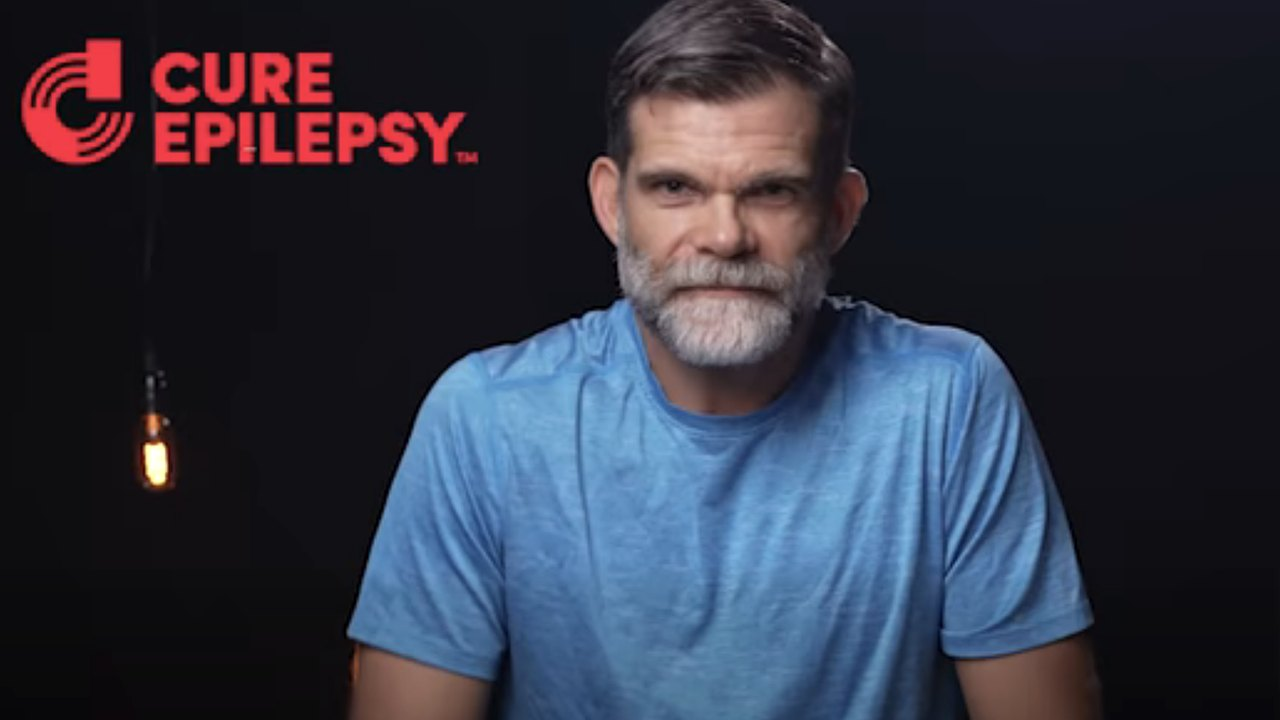
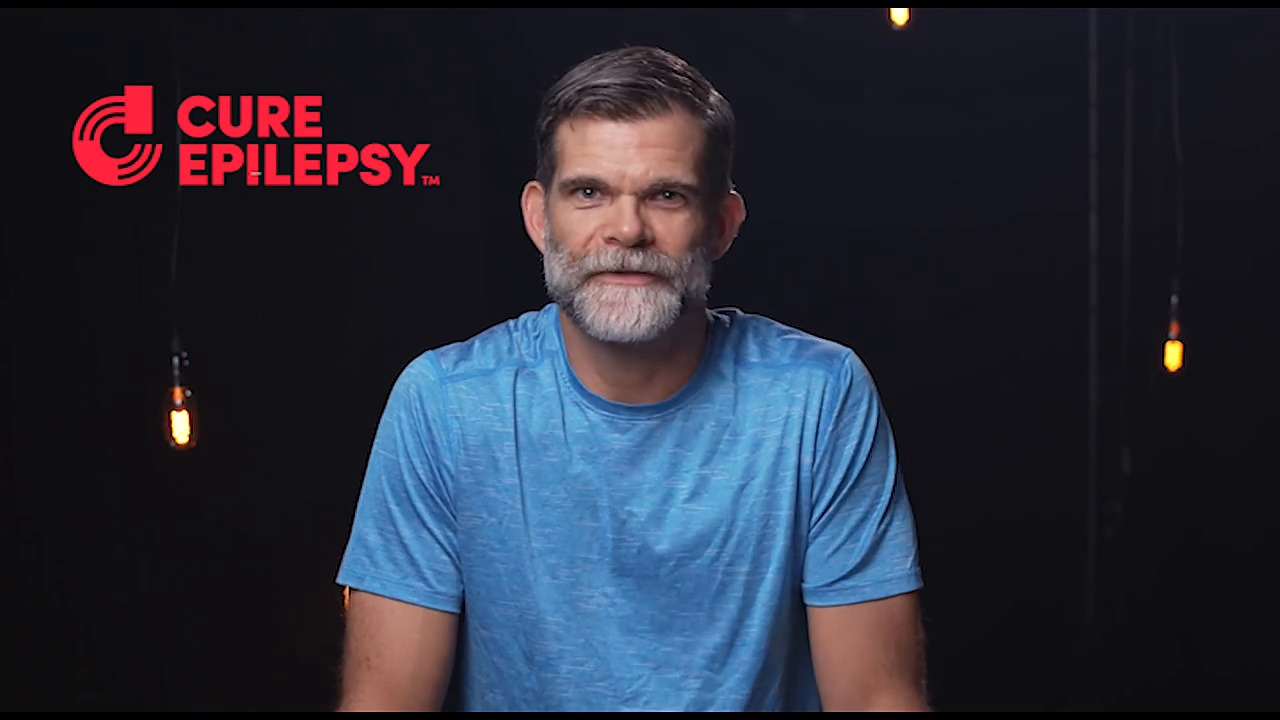
CURE thumbnail from the source file; bigger viewer so YouTube serves higher quality
Claude-Session: https://claude.ai/code/session_015KQFJCzFPqNAcjc17UuvdV

diff --git a/film.html b/film.html
@@ -17,8 +17,8 @@
 <link rel="preconnect" href="https://fonts.googleapis.com">
 <link rel="preconnect" href="https://fonts.gstatic.com" crossorigin>
 <link href="https://fonts.googleapis.com/css2?family=Anton&family=Caveat:wght@500;600&family=Fraunces:ital,opsz,wght@0,9..144,400;0,9..144,500;1,9..144,400;1,9..144,500&family=Inter:wght@300;400;500&family=JetBrains+Mono:wght@400;500&display=swap" rel="stylesheet">
-<link rel="stylesheet" href="css/site.css?v=202611181149">
-<link rel="stylesheet" href="css/work.css?v=202611181149">
+<link rel="stylesheet" href="css/site.css?v=202611181157">
+<link rel="stylesheet" href="css/work.css?v=202611181157">
 </head>
 <body class="theme-ink page-film">
 <a class="skip" href="#main">Skip to content</a>
@@ -101,7 +101,7 @@
     </li>
     <li class="reel" data-yt="5fXrk5r1kSE">
       <button class="reel-play" type="button" aria-label="Play the CURE Epilepsy fundraising video">
-        <span class="reel-thumb"><img src="images/work/cure-epilepsy.jpg" alt="" loading="lazy"></span>
+        <span class="reel-thumb"><img src="images/work/cure-epilepsy.jpg?v=2" alt="" loading="lazy"></span>
         <span class="reel-icon" aria-hidden="true"><svg viewBox="0 0 24 24"><path d="M8 5.5v13l11-6.5z"/></svg></span>
       </button>
       <div class="reel-info">
@@ -161,8 +161,8 @@
     <span class="foot-copy">© <span class="yr">2026</span> A Digital Media Studio, LLC</span>
   </div>
 </footer>
-<script src="js/site.js?v=202611181149"></script>
-<script src="js/work.js?v=202611181149"></script>
-<script src="js/viewer.js?v=202611181149"></script>
+<script src="js/site.js?v=202611181157"></script>
+<script src="js/work.js?v=202611181157"></script>
+<script src="js/viewer.js?v=202611181157"></script>
 </body>
 </html>

diff --git a/photography.html b/photography.html
@@ -17,8 +17,8 @@
 <link rel="preconnect" href="https://fonts.googleapis.com">
 <link rel="preconnect" href="https://fonts.gstatic.com" crossorigin>
 <link href="https://fonts.googleapis.com/css2?family=Anton&family=Caveat:wght@500;600&family=Fraunces:ital,opsz,wght@0,9..144,400;0,9..144,500;1,9..144,400;1,9..144,500&family=Inter:wght@300;400;500&family=JetBrains+Mono:wght@400;500&display=swap" rel="stylesheet">
-<link rel="stylesheet" href="css/site.css?v=202611181149">
-<link rel="stylesheet" href="css/work.css?v=202611181149">
+<link rel="stylesheet" href="css/site.css?v=202611181157">
+<link rel="stylesheet" href="css/work.css?v=202611181157">
 </head>
 <body class="theme-denim page-photography">
 <a class="skip" href="#main">Skip to content</a>
@@ -138,7 +138,7 @@
     <span class="foot-copy">© <span class="yr">2026</span> A Digital Media Studio, LLC</span>
   </div>
 </footer>
-<script src="js/site.js?v=202611181149"></script>
-<script src="js/viewer.js?v=202611181149"></script>
+<script src="js/site.js?v=202611181157"></script>
+<script src="js/viewer.js?v=202611181157"></script>
 </body>
 </html>

diff --git a/builds.html b/builds.html
@@ -17,8 +17,8 @@
 <link rel="preconnect" href="https://fonts.googleapis.com">
 <link rel="preconnect" href="https://fonts.gstatic.com" crossorigin>
 <link href="https://fonts.googleapis.com/css2?family=Anton&family=Caveat:wght@500;600&family=Fraunces:ital,opsz,wght@0,9..144,400;0,9..144,500;1,9..144,400;1,9..144,500&family=Inter:wght@300;400;500&family=JetBrains+Mono:wght@400;500&display=swap" rel="stylesheet">
-<link rel="stylesheet" href="css/site.css?v=202611181149">
-<link rel="stylesheet" href="css/phone.css?v=202611181149">
+<link rel="stylesheet" href="css/site.css?v=202611181157">
+<link rel="stylesheet" href="css/phone.css?v=202611181157">
 </head>
 <body class="theme-denim page-builds">
 <a class="skip" href="#main">Skip to content</a>
@@ -163,7 +163,7 @@
     <span class="foot-copy">© <span class="yr">2026</span> A Digital Media Studio, LLC</span>
   </div>
 </footer>
-<script src="js/site.js?v=202611181149"></script>
-<script src="js/phone.js?v=202611181149"></script>
+<script src="js/site.js?v=202611181157"></script>
+<script src="js/phone.js?v=202611181157"></script>
 </body>
 </html>

diff --git a/index.html b/index.html
@@ -17,8 +17,8 @@
 <link rel="preconnect" href="https://fonts.googleapis.com">
 <link rel="preconnect" href="https://fonts.gstatic.com" crossorigin>
 <link href="https://fonts.googleapis.com/css2?family=Anton&family=Caveat:wght@500;600&family=Fraunces:ital,opsz,wght@0,9..144,400;0,9..144,500;1,9..144,400;1,9..144,500&family=Inter:wght@300;400;500&family=JetBrains+Mono:wght@400;500&display=swap" rel="stylesheet">
-<link rel="stylesheet" href="css/site.css?v=202611181149">
-<link rel="stylesheet" href="css/work.css?v=202611181149">
+<link rel="stylesheet" href="css/site.css?v=202611181157">
+<link rel="stylesheet" href="css/work.css?v=202611181157">
 </head>
 <body class="theme-paper page-index">
 <a class="skip" href="#main">Skip to content</a>
@@ -203,7 +203,7 @@
     <span class="foot-copy">© <span class="yr">2026</span> A Digital Media Studio, LLC</span>
   </div>
 </footer>
-<script src="js/site.js?v=202611181149"></script>
-<script src="js/viewer.js?v=202611181149"></script>
+<script src="js/site.js?v=202611181157"></script>
+<script src="js/viewer.js?v=202611181157"></script>
 </body>
 </html>

diff --git a/get-in-touch.html b/get-in-touch.html
@@ -17,7 +17,7 @@
 <link rel="preconnect" href="https://fonts.googleapis.com">
 <link rel="preconnect" href="https://fonts.gstatic.com" crossorigin>
 <link href="https://fonts.googleapis.com/css2?family=Anton&family=Caveat:wght@500;600&family=Fraunces:ital,opsz,wght@0,9..144,400;0,9..144,500;1,9..144,400;1,9..144,500&family=Inter:wght@300;400;500&family=JetBrains+Mono:wght@400;500&display=swap" rel="stylesheet">
-<link rel="stylesheet" href="css/site.css?v=202611181149">
+<link rel="stylesheet" href="css/site.css?v=202611181157">
 </head>
 <body class="theme-ink page-get-in-touch">
 <a class="skip" href="#main">Skip to content</a>
@@ -106,6 +106,6 @@
     <span class="foot-copy">© <span class="yr">2026</span> A Digital Media Studio, LLC</span>
   </div>
 </footer>
-<script src="js/site.js?v=202611181149"></script>
+<script src="js/site.js?v=202611181157"></script>
 </body>
 </html>

diff --git a/retainer.html b/retainer.html
@@ -17,7 +17,7 @@
 <link rel="preconnect" href="https://fonts.googleapis.com">
 <link rel="preconnect" href="https://fonts.gstatic.com" crossorigin>
 <link href="https://fonts.googleapis.com/css2?family=Anton&family=Caveat:wght@500;600&family=Fraunces:ital,opsz,wght@0,9..144,400;0,9..144,500;1,9..144,400;1,9..144,500&family=Inter:wght@300;400;500&family=JetBrains+Mono:wght@400;500&display=swap" rel="stylesheet">
-<link rel="stylesheet" href="css/site.css?v=202611181149">
+<link rel="stylesheet" href="css/site.css?v=202611181157">
 </head>
 <body class="theme-denim page-retainer">
 <a class="skip" href="#main">Skip to content</a>
@@ -121,6 +121,6 @@
     <span class="foot-copy">© <span class="yr">2026</span> A Digital Media Studio, LLC</span>
   </div>
 </footer>
-<script src="js/site.js?v=202611181149"></script>
+<script src="js/site.js?v=202611181157"></script>
 </body>
 </html>

diff --git a/about.html b/about.html
@@ -17,7 +17,7 @@
 <link rel="preconnect" href="https://fonts.googleapis.com">
 <link rel="preconnect" href="https://fonts.gstatic.com" crossorigin>
 <link href="https://fonts.googleapis.com/css2?family=Anton&family=Caveat:wght@500;600&family=Fraunces:ital,opsz,wght@0,9..144,400;0,9..144,500;1,9..144,400;1,9..144,500&family=Inter:wght@300;400;500&family=JetBrains+Mono:wght@400;500&display=swap" rel="stylesheet">
-<link rel="stylesheet" href="css/site.css?v=202611181149">
+<link rel="stylesheet" href="css/site.css?v=202611181157">
 </head>
 <body class="theme-ink page-about">
 <a class="skip" href="#main">Skip to content</a>
@@ -130,6 +130,6 @@
     <span class="foot-copy">© <span class="yr">2026</span> A Digital Media Studio, LLC</span>
   </div>
 </footer>
-<script src="js/site.js?v=202611181149"></script>
+<script src="js/site.js?v=202611181157"></script>
 </body>
 </html>

diff --git a/css/work.css b/css/work.css
@@ -89,7 +89,7 @@ body.viewing{overflow:hidden}
 .viewer-nav:hover,.viewer-nav:focus-visible{background:#E0B25C;outline:none}
 .viewer-nav:hover svg,.viewer-nav:focus-visible svg{stroke:#16150F}
 .viewer-nav[hidden]{display:none}
-.viewer-box{width:min(1100px,calc(100vw - 180px),calc((100vh - 200px) * 16 / 9))}
+.viewer-box{width:min(1600px,calc(100vw - 180px),calc((100vh - 200px) * 16 / 9))}
 .viewer-bar{display:flex;justify-content:space-between;align-items:flex-start;gap:20px;margin-top:14px;color:#EAD7B6}
 .viewer-cap strong{display:block;font-family:var(--display);font-weight:400;font-size:clamp(20px,2vw,28px);text-transform:uppercase;line-height:1.05;letter-spacing:.01em}
 .viewer-cap span{display:block;margin-top:5px;font-family:var(--mono);font-size:11px;letter-spacing:.12em;text-transform:uppercase;color:#B9AC90}
